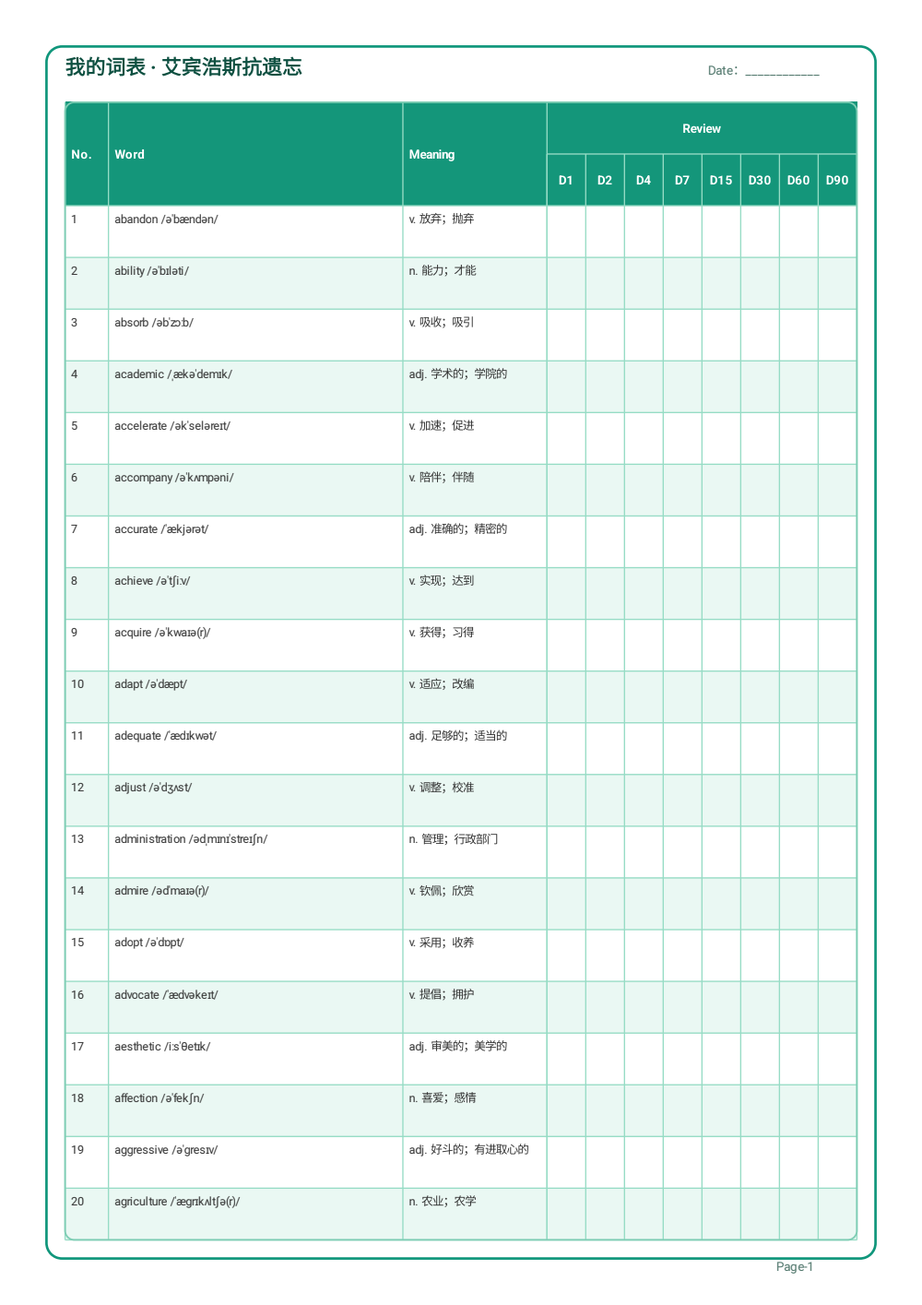
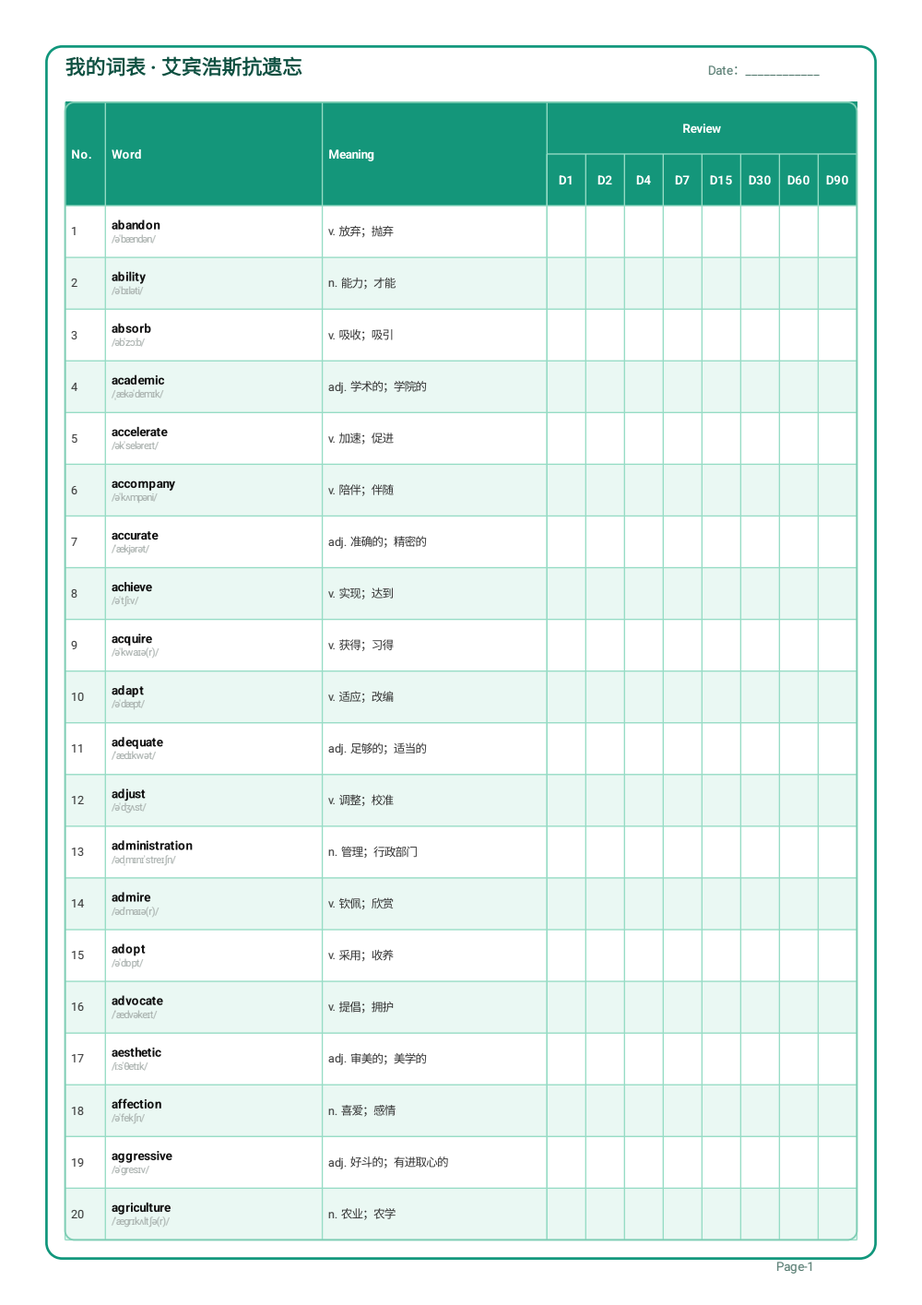
feat(worksheet): separate word from its IPA and tidy the table layout
用户要求默写纸里「单词和音标要有明显的区分（单词黑色、音标淡灰）」，并把版式排好。

- 新增 WorksheetInk 作为墨色契约：单词 #111111 / 8pt / 加粗，音标 #A3ABA8 / 6.6pt，
  释义 #333333 / 7.5pt。原先单词与音标被拼成一行同色字符串，用户看不出层次。
- 行单元格类型化为 sealed interface Cell { Plain, Word }；单词与音标分行绘制
  （单词在上、音标在下），行高不够时先保证单词完整、音标让位。
- 新增 drawCell 让文本块在行内垂直居中（按真实 fontMetrics 算块高）。原先所有
  单元格都贴顶，两行的单词格与单行的释义格看起来没对齐。
- wrap / breakByCharacter 改为显式接收 Paint：不同字号必须用各自的笔测宽，
  否则换行与省略号都算错。
- 列宽重排：FULL_LIST [22,100,余]、答案页 [26,170,余]、艾宾浩斯正文 [26,140,余]，
  Word 列要同时容下两行，释义列吃剩余宽度。
- 顺带修两处错位：艾宾浩斯合并表头原先按 ANSWER_COLUMNS 绘制而数据行用
  REVIEW_TEXT_COLUMNS，两套列宽不一致会让 Meaning 表头与列内容错开；
  ellipsize 用正文笔测宽却用表头笔画字，可用宽度偏窄导致表头溢出。

新增 WorksheetInkTest 用 WCAG 相对亮度锁定「单词必须明显重于音标」：单词亮度 < 0.05、
音标亮度 > 0.30、两者亮度差 > 0.25，且音标字号更小。断言的是可度量关系而非具体色值，
以后微调配色不会误报，把音标调成和单词一样重则一定失败。

真机（M2102J2SC / MIUI V816 / Android 13）复核：JVM 179 tests、真机全量 92 tests 全绿；
三份模板的 A4 位图与应用内预览实拍已归档到 docs/verification/printable-worksheet/，
跑测试前后用户数据库时间戳与大小一致。

diff --git a/app/src/main/java/com/example/englishlearning/export/WorksheetPdfRenderer.kt b/app/src/main/java/com/example/englishlearning/export/WorksheetPdfRenderer.kt
@@ -84,9 +84,9 @@ class WorksheetPdfRenderer(
             drawRowCells(
                 canvas, TABLE_LEFT, y, rowHeight,
                 listOf(
-                    answer.number.toString(),
-                    "${answer.lemma}  ${answer.ipa}",
-                    "${answer.partOfSpeech} ${answer.meaningZh}",
+                    Cell.Plain(answer.number.toString()),
+                    Cell.Word(answer.lemma, answer.ipa),
+                    Cell.Plain("${answer.partOfSpeech} ${answer.meaningZh}"),
                 ),
                 ANSWER_COLUMNS,
             )
@@ -107,7 +107,11 @@ class WorksheetPdfRenderer(
                 fillRow(canvas, y, rowHeight, index, left, GROUP_WIDTH)
                 drawRowCells(
                     canvas, left, y, rowHeight,
-                    listOf(row.number.toString(), "${row.lemma} ${row.ipa}", "${row.partOfSpeech} ${row.meaningZh}"),
+                    listOf(
+                        Cell.Plain(row.number.toString()),
+                        Cell.Word(row.lemma, row.ipa),
+                        Cell.Plain("${row.partOfSpeech} ${row.meaningZh}"),
+                    ),
                     FULL_LIST_COLUMNS,
                 )
             }
@@ -131,8 +135,16 @@ class WorksheetPdfRenderer(
             val y = TABLE_TOP + rowHeight * (index + 1)
             fillRow(canvas, y, rowHeight, index, left, GROUP_WIDTH)
             fillRow(canvas, y, rowHeight, index, right, GROUP_WIDTH)
-            drawRowCells(canvas, left, y, rowHeight, listOf(row.number.toString(), "${row.lemma} ${row.ipa}", ""), leftColumns)
-            drawRowCells(canvas, right, y, rowHeight, listOf(row.number.toString(), "", "${row.partOfSpeech} ${row.meaningZh}"), rightColumns)
+            drawRowCells(
+                canvas, left, y, rowHeight,
+                listOf(Cell.Plain(row.number.toString()), Cell.Word(row.lemma, row.ipa), Cell.Plain("")),
+                leftColumns,
+            )
+            drawRowCells(
+                canvas, right, y, rowHeight,
+                listOf(Cell.Plain(row.number.toString()), Cell.Plain(""), Cell.Plain("${row.partOfSpeech} ${row.meaningZh}")),
+                rightColumns,
+            )
             if (useFourLineGrid) {
                 val leftBlankStart = left + SPELLING_NUMBER_WIDTH + promptWidth
                 drawFourLineGrid(canvas, leftBlankStart + 6f, y + rowHeight - 10f, left + GROUP_WIDTH - 6f)
@@ -156,7 +168,11 @@ class WorksheetPdfRenderer(
             fillRow(canvas, y, rowHeight, index)
             drawRowCells(
                 canvas, TABLE_LEFT, y, rowHeight,
-                listOf(row.number.toString(), "${row.lemma} ${row.ipa}", "${row.partOfSpeech} ${row.meaningZh}"),
+                listOf(
+                    Cell.Plain(row.number.toString()),
+                    Cell.Word(row.lemma, row.ipa),
+                    Cell.Plain("${row.partOfSpeech} ${row.meaningZh}"),
+                ),
                 REVIEW_TEXT_COLUMNS,
             )
         }
@@ -188,11 +204,13 @@ class WorksheetPdfRenderer(
             HEADER_CORNER, HEADER_CORNER, headerFillBorder,
         )
         canvas.drawRect(left, TABLE_TOP, left + TABLE_WIDTH, headerBottom, headerFill)
-        drawHeaderCell(canvas, left, TABLE_TOP, rowHeight * EBBINGHAUS_HEADER_ROWS, "No.", ANSWER_COLUMNS[0])
-        drawHeaderCell(canvas, left + ANSWER_COLUMNS[0], TABLE_TOP, rowHeight * EBBINGHAUS_HEADER_ROWS, "Word", ANSWER_COLUMNS[1])
+        // 合并表头的列宽必须与数据行同一套（REVIEW_TEXT_COLUMNS），否则表头与列内容错位。
+        val headerHeight = rowHeight * EBBINGHAUS_HEADER_ROWS
+        drawHeaderCell(canvas, left, TABLE_TOP, headerHeight, "No.", REVIEW_TEXT_COLUMNS[0])
+        drawHeaderCell(canvas, left + REVIEW_TEXT_COLUMNS[0], TABLE_TOP, headerHeight, "Word", REVIEW_TEXT_COLUMNS[1])
         drawHeaderCell(
-            canvas, left + ANSWER_COLUMNS[0] + ANSWER_COLUMNS[1], TABLE_TOP, rowHeight * EBBINGHAUS_HEADER_ROWS,
-            "Meaning", REVIEW_TEXT_WIDTH - ANSWER_COLUMNS[0] - ANSWER_COLUMNS[1],
+            canvas, left + REVIEW_TEXT_COLUMNS[0] + REVIEW_TEXT_COLUMNS[1], TABLE_TOP, headerHeight,
+            "Meaning", REVIEW_TEXT_COLUMNS[2],
         )
         REVIEW_DAYS.forEachIndexed { index, day ->
             val x = left + REVIEW_TEXT_WIDTH + REVIEW_WIDTH * index / REVIEW_DAYS.size
@@ -231,15 +249,73 @@ class WorksheetPdfRenderer(
         canvas.drawText(text, x + width / 2f - header.measureText(text) / 2f, y + height / 2f + 3f, header)
     }
 
-    private fun drawRowCells(canvas: Canvas, left: Float, y: Float, rowHeight: Float, cells: List<String>, columns: FloatArray) {
+    /**
+     * 一行里的一个单元格。`Word` 把单词与音标拆成两种墨：单词近黑加粗、音标淡灰小字，
+     * 两者在纸面上必须一眼可分，而不是连成一串同色文字。
+     */
+    private sealed interface Cell {
+        data class Plain(val text: String) : Cell
+
+        data class Word(val lemma: String, val ipa: String) : Cell
+    }
+
+    private fun drawRowCells(
+        canvas: Canvas,
+        left: Float,
+        y: Float,
+        rowHeight: Float,
+        cells: List<Cell>,
+        columns: FloatArray,
+    ) {
         var x = left
-        cells.forEachIndexed { index, text ->
-            if (text.isNotEmpty()) {
-                drawWrapped(canvas, text, x + 4f, y + 11f, columns[index] - 8f, rowHeight - 6f)
+        cells.forEachIndexed { index, cell ->
+            val width = columns[index] - CELL_INSET_X * 2f
+            when (cell) {
+                is Cell.Plain -> if (cell.text.isNotEmpty()) {
+                    drawCell(
+                        canvas,
+                        x + CELL_INSET_X,
+                        y,
+                        rowHeight,
+                        wrap(cell.text, width, maxLinesFor(rowHeight), body).map { it to body },
+                    )
+                }
+
+                is Cell.Word -> drawCell(
+                    canvas,
+                    x + CELL_INSET_X,
+                    y,
+                    rowHeight,
+                    wordCellLines(cell.lemma, cell.ipa, width, rowHeight),
+                )
             }
             x += columns[index]
         }
     }
+
+    /** 单词在上、音标在下；行高不够时先保证单词完整，音标让位而不是互相挤成一行。 */
+    private fun wordCellLines(lemma: String, ipa: String, width: Float, rowHeight: Float): List<Pair<String, Paint>> {
+        val maxLines = maxLinesFor(rowHeight)
+        val lemmaLines = wrap(lemma, width, maxLines, lemmaInk).map { it to lemmaInk }
+        val remaining = maxLines - lemmaLines.size
+        if (remaining <= 0 || ipa.isBlank()) return lemmaLines
+        return lemmaLines + wrap(ipa, width, remaining, ipaInk).map { it to ipaInk }
+    }
+
+    /** 文本块在行内垂直居中，避免多行单元格贴顶、与相邻列看起来没对齐。 */
+    private fun drawCell(canvas: Canvas, x: Float, y: Float, rowHeight: Float, lines: List<Pair<String, Paint>>) {
+        if (lines.isEmpty()) return
+        val metrics = lines.first().second.fontMetrics
+        val ascent = -metrics.ascent
+        val blockHeight = LINE_HEIGHT * (lines.size - 1) + ascent + metrics.descent
+        var baseline = y + (rowHeight - blockHeight) / 2f + ascent
+        lines.forEach { (text, paint) ->
+            canvas.drawText(text, x, baseline, paint)
+            baseline += LINE_HEIGHT
+        }
+    }
+
+    private fun maxLinesFor(rowHeight: Float): Int = ((rowHeight - 4f) / LINE_HEIGHT).toInt().coerceAtLeast(1)
 
     /** 横向网格：表头行以下逐行画线，最后一行即表格下边框。 */
     private fun strokeRows(
@@ -297,17 +373,13 @@ class WorksheetPdfRenderer(
         canvas.drawLine(left, baseline, right, baseline, cellStroke)
     }
 
-    private fun drawWrapped(canvas: Canvas, text: String, x: Float, y: Float, maxWidth: Float, maxHeight: Float) {
-        val lines = wrap(text, maxWidth, (maxHeight / LINE_HEIGHT).toInt().coerceAtLeast(1))
-        lines.forEachIndexed { index, line -> canvas.drawText(line, x, y + LINE_HEIGHT * index, body) }
-    }
-
-    private fun wrap(text: String, maxWidth: Float, maxLines: Int): List<String> {
+    private fun wrap(text: String, maxWidth: Float, maxLines: Int, paint: Paint): List<String> {
+        if (maxLines <= 0) return emptyList()
         val byWord = mutableListOf<String>()
         var current = StringBuilder()
         text.split(' ').forEach { word ->
             val candidate = if (current.isEmpty()) word else "$current $word"
-            if (body.measureText(candidate) <= maxWidth || current.isEmpty()) {
+            if (paint.measureText(candidate) <= maxWidth || current.isEmpty()) {
                 current = StringBuilder(candidate)
             } else {
                 byWord += current.toString()
@@ -316,19 +388,19 @@ class WorksheetPdfRenderer(
         }
         if (current.isNotEmpty()) byWord += current.toString()
         // 中文释义没有空格，按词切分后仍可能超出列宽，再按字符兜底断行。
-        val lines = byWord.flatMap { line -> breakByCharacter(line, maxWidth) }
+        val lines = byWord.flatMap { line -> breakByCharacter(line, maxWidth, paint) }
         if (lines.isEmpty()) return listOf("")
         val visible = lines.take(maxLines).toMutableList()
         if (lines.size > maxLines) visible[visible.lastIndex] = visible.last().dropLast(1) + "…"
         return visible
     }
 
-    private fun breakByCharacter(line: String, maxWidth: Float): List<String> {
-        if (body.measureText(line) <= maxWidth) return listOf(line)
+    private fun breakByCharacter(line: String, maxWidth: Float, paint: Paint): List<String> {
+        if (paint.measureText(line) <= maxWidth) return listOf(line)
         val chunks = mutableListOf<String>()
         val current = StringBuilder()
         line.forEach { character ->
-            if (current.isNotEmpty() && body.measureText("$current$character") > maxWidth) {
+            if (current.isNotEmpty() && paint.measureText("$current$character") > maxWidth) {
                 chunks += current.toString()
                 current.clear()
             }
@@ -338,10 +410,11 @@ class WorksheetPdfRenderer(
         return chunks
     }
 
+    /** 表头用 `header` 笔绘制，就必须用同一支笔测宽，否则会算出偏窄的可用宽度而溢出单元格。 */
     private fun ellipsize(text: String, maxWidth: Float): String {
-        if (body.measureText(text) <= maxWidth) return text
+        if (header.measureText(text) <= maxWidth) return text
         var result = text
-        while (result.isNotEmpty() && body.measureText("$result…") > maxWidth) result = result.dropLast(1)
+        while (result.isNotEmpty() && header.measureText("$result…") > maxWidth) result = result.dropLast(1)
         return "$result…"
     }
 
@@ -370,7 +443,11 @@ class WorksheetPdfRenderer(
     private val title = textPaint(Color.rgb(14, 80, 65), 13f, bold = true)
     private val meta = textPaint(Color.rgb(78, 117, 106), 8f)
     private val header = textPaint(Color.WHITE, 8f, bold = true)
-    private val body = textPaint(Color.rgb(51, 51, 51), 7.5f)
+    private val body = textPaint(WorksheetInk.BODY, WorksheetInk.BODY_SIZE)
+    /** 单词：近黑加粗，是每一行最重的墨。 */
+    private val lemmaInk = textPaint(WorksheetInk.LEMMA, WorksheetInk.LEMMA_SIZE, bold = true)
+    /** 音标：淡灰小字，明显轻于单词。 */
+    private val ipaInk = textPaint(WorksheetInk.IPA, WorksheetInk.IPA_SIZE)
     private val frame = Paint(Paint.ANTI_ALIAS_FLAG).apply {
         color = Color.rgb(16, 150, 123)
         style = Paint.Style.STROKE
@@ -416,12 +493,14 @@ class WorksheetPdfRenderer(
         const val REVIEW_TEXT_WIDTH = TABLE_WIDTH - REVIEW_WIDTH
         const val LINE_HEIGHT = 8.4f
         const val MAX_ROW_HEIGHT = 60f
+        const val CELL_INSET_X = 4f
         const val ROWS_PER_COLUMN = 20
         const val SPELLING_NUMBER_WIDTH = 22f
         const val EBBINGHAUS_HEADER_ROWS = 2
         val REVIEW_DAYS = listOf("D1", "D2", "D4", "D7", "D15", "D30", "D60", "D90")
-        val FULL_LIST_COLUMNS = floatArrayOf(24f, 92f, GROUP_WIDTH - 116f)
-        val ANSWER_COLUMNS = floatArrayOf(28f, 190f, TABLE_WIDTH - 218f)
-        val REVIEW_TEXT_COLUMNS = floatArrayOf(28f, 190f, REVIEW_TEXT_WIDTH - 218f)
+        // Word 列要同时容下单词与音标两行，因此比 No. 列宽裕；释义列吃剩下的宽度。
+        val FULL_LIST_COLUMNS = floatArrayOf(22f, 100f, GROUP_WIDTH - 122f)
+        val ANSWER_COLUMNS = floatArrayOf(26f, 170f, TABLE_WIDTH - 196f)
+        val REVIEW_TEXT_COLUMNS = floatArrayOf(26f, 140f, REVIEW_TEXT_WIDTH - 166f)
     }
 }

diff --git a/app/src/test/java/com/example/englishlearning/export/WorksheetInkTest.kt b/app/src/test/java/com/example/englishlearning/export/WorksheetInkTest.kt
@@ -1,0 +1,46 @@
+package com.example.englishlearning.export
+
+import kotlin.math.pow
+import kotlin.test.assertTrue
+import org.junit.jupiter.api.Test
+
+/**
+ * 锁定用户要求：默写纸里「单词」和「音标」必须有明显的区分。
+ *
+ * 断言的是可度量的相对关系（谁更暗、谁更小、差得够不够远），而不是具体色值，
+ * 这样以后微调配色不会误报，但把音标调成和单词一样黑、或把字号调大到无法区分时一定会失败。
+ */
+class WorksheetInkTest {
+    @Test
+    fun `lemma ink is the darkest and ipa ink is clearly lighter`() {
+        val lemma = relativeLuminance(WorksheetInk.LEMMA)
+        val ipa = relativeLuminance(WorksheetInk.IPA)
+        val body = relativeLuminance(WorksheetInk.BODY)
+
+        assertTrue(lemma < 0.05, "单词必须是近黑，实际亮度 $lemma")
+        assertTrue(ipa > 0.30, "音标必须是明显的淡灰，不能接近黑色，实际亮度 $ipa")
+        assertTrue(lemma < body && body < ipa, "明暗层次应为 单词 < 释义 < 音标，实际 $lemma / $body / $ipa")
+        assertTrue(ipa - lemma > 0.25, "单词与音标的亮度差太小，用户看不出区别：${ipa - lemma}")
+    }
+
+    @Test
+    fun `ipa is set smaller than the lemma so the hierarchy survives greyscale printing`() {
+        assertTrue(
+            WorksheetInk.LEMMA_SIZE > WorksheetInk.IPA_SIZE,
+            "音标字号必须小于单词：${WorksheetInk.LEMMA_SIZE} vs ${WorksheetInk.IPA_SIZE}",
+        )
+        assertTrue(WorksheetInk.IPA_SIZE >= 6f, "音标也不能小到印不清：${WorksheetInk.IPA_SIZE}")
+    }
+
+    /** WCAG 相对亮度，0 为纯黑、1 为纯白。 */
+    private fun relativeLuminance(color: Int): Double {
+        fun channel(value: Int): Double {
+            val ratio = value / 255.0
+            return if (ratio <= 0.03928) ratio / 12.92 else ((ratio + 0.055) / 1.055).pow(2.4)
+        }
+
+        return 0.2126 * channel((color shr 16) and 0xFF) +
+            0.7152 * channel((color shr 8) and 0xFF) +
+            0.0722 * channel(color and 0xFF)
+    }
+}

diff --git a/app/src/main/java/com/example/englishlearning/export/WorksheetInk.kt b/app/src/main/java/com/example/englishlearning/export/WorksheetInk.kt
@@ -1,0 +1,23 @@
+package com.example.englishlearning.export
+
+/**
+ * 默写纸的墨色契约。
+ *
+ * 用户要求「单词和音标要有明显的区分」：单词用最重的近黑、音标用明显更淡的灰，
+ * 并且音标字号更小。三者数值集中在这里，渲染器与 JVM 测试读的是同一份，
+ * 因此「单词必须明显重于音标」这条要求可以被测试锁定，而不是只靠人眼看。
+ */
+object WorksheetInk {
+    /** 单词：近黑，最重，加粗。 */
+    const val LEMMA = 0xFF111111.toInt()
+
+    /** 音标：淡灰，明显轻于单词，用于弱化提示信息。 */
+    const val IPA = 0xFFA3ABA8.toInt()
+
+    /** 释义与其余正文。 */
+    const val BODY = 0xFF333333.toInt()
+
+    const val LEMMA_SIZE = 8.0f
+    const val IPA_SIZE = 6.6f
+    const val BODY_SIZE = 7.5f
+}

diff --git a/docs/verification/printable-worksheet/README.md b/docs/verification/printable-worksheet/README.md
@@ -2,7 +2,7 @@
 
 设备：`M2102J2SC`（MIUI V816 / Android 13，adb serial `bf353dda`）
 分支：`stage-1-f1-05-fsrs-scheduling`
-调试 APK：`app/build/outputs/apk/debug/app-debug.apk`，MD5 `c06fdaeca02fe7643212597fccc2b795`
+调试 APK：`app/build/outputs/apk/debug/app-debug.apk`，MD5 `089d873dbc815d144f6428103c059988`
 
 ## 一、三份导出模板
 
@@ -16,6 +16,8 @@
 | 答案页 | 单栏 `No./Word/Meaning`，题号与题目页一致 | 20 |
 
 共同版式：A4 竖版 595×842 pt、圆角青绿外框、深青底白字表头、浅青交替行底色；**每张表都带闭合外框 + 全格网格**，竖线包含左右外边线，读起来是一张连续的表而不是散落的线。标题左上、`Date：` 右上、`Page-N` 右下。四线三格只作用于拼写测试模板的留空单元格。
+
+**墨色契约（`WorksheetInk`）**：单词近黑加粗（`#111111` / 8 pt）、音标淡灰小字（`#A3ABA8` / 6.6 pt）、释义中灰（`#333333` / 7.5 pt）。单词与音标**分行**绘制（单词在上、音标在下），单元格文本块在行内垂直居中，因此同一行的单词、音标、释义在同一视觉基线上。相对关系由 `WorksheetInkTest` 锁定：单词亮度必须 < 0.05、音标亮度必须 > 0.30，且两者亮度差 > 0.25——以后微调配色不会误报，但把音标调成和单词一样重一定会失败。
 
 只有拼写测试模板消费「中译英 / 英译中」方向；完整词表与艾宾浩斯模板都直接印出单词与释义，选择两个方向也不会把词表重复两遍（`WorksheetSettings.requiresDirection()` + 文档构建器只生成一组）。
 
@@ -32,7 +34,7 @@
 ## 三、测试结果
 
 ```
-:app:testDebugUnitTest        177 tests / 0 failed / 0 skipped
+:app:testDebugUnitTest        179 tests / 0 failed / 0 skipped
 真机 am instrument 全量        92 tests / 0 failed / 0 errors / 0 skipped
 ```
 
@@ -74,14 +76,26 @@ MSYS_NO_PATHCONV=1 adb shell am instrument -w com.example.englishlearning.test/a
 | `06-export-chooser.png` | 系统面板里文件名为 `worksheet-*.pdf`，并出现「Android 系统 打开」入口 |
 | `07-opened-in-viewer.png` | PDF 在小米浏览器阅读器中真实渲染出题目页与答案页 |
 
-## 五、一并修复的既有质量门账目
+## 五、单词与音标的视觉区分，以及第二轮排版整理
+
+用户要求「单词和音标要有明显的区分，比如单词是黑色的音标是淡灰色等等，还有要排好版」。改动：
+
+- 单词与音标**分行**绘制，不再拼成一行同色文字：单词近黑加粗在上、音标淡灰小字在下。
+- 墨色抽成 `WorksheetInk`（`#111111` / `#A3ABA8` / `#333333`），由 `WorksheetInkTest` 锁定「单词必须明显重于音标」的度量关系。
+- 单元格文本块改为在行内**垂直居中**，多行单元格不再贴顶，同一行的单词、音标、释义落在同一视觉基线上。
+- 列宽重排：`FULL_LIST` `[22, 100, 剩余]`、答案页 `[26, 170, 剩余]`、艾宾浩斯正文 `[26, 140, 剩余]`——Word 列要同时容下两行，比 No. 列宽裕；释义列吃剩下的宽度。
+- 修掉两处会错位的旧问题：艾宾浩斯合并表头的列宽原先取 `ANSWER_COLUMNS`，与数据行的 `REVIEW_TEXT_COLUMNS` 不是同一套，`Meaning` 表头与列内容会错开；`ellipsize` 用正文笔测宽却用表头笔画字，算出的可用宽度偏窄导致表头溢出。
+
+真机（M2102J2SC / MIUI V816 / Android 13）复核：`WorksheetInkTest` 2/2 通过（JVM 179 项全绿），真机全量 92 项全绿；三份模板的 A4 位图在 `docs/verification/printable-worksheet/*.png`（本轮重新导出），应用内预览实拍 `ui/08-in-app-preview-ink.png`。跑测试前后 `english-learning.db`（176128 B / 00:33）与 `-wal`、`-shm` 时间戳、大小一致，用户数据未被触碰。
+
+## 六、一并修复的既有质量门账目
 
 本轮开始前全量单元测试有 4 项失败，与本功能无关，已定位并修复：
 
 1. `LogicalSnapshotSecurityTest`（2 项）与 `ProviderContractTest`（1 项）：禁用词表按**子串**匹配，`ExportProfileRecord` 里的 `Profile` 命中 `file`，把普通导出 DTO 误判成存储材料。改为按词边界（含 camelCase 拆分与相邻词拼接）匹配，`java.io.File`、`filePath`、`files`、`apiKey`、`httpUrl` 仍会被命中，检测能力未削弱。
 2. `ThirdPartyNoticesTest`：版本目录中 `androidx-core-splashscreen`、`androidx-lifecycle-viewmodel`、`androidx-hilt-navigation-compose`、`androidx-compose-ui-test-manifest`、`androidx-room-testing` 五个别名缺台账条目，已在 `docs/third-party-notices.md` 补齐。
 
-## 六、边界与未完成项
+## 七、边界与未完成项
 
 - PDF 只生成在 `cacheDir/worksheets/`，经 FileProvider 以 `content://` 只读共享；未新增存储或网络权限。
 - 词条只来自当前不可变今日计划中已提交反馈的卡片，复习词排在新词前。

diff --git a/docs/superpowers/specs/2026-09-23-printable-vocabulary-worksheet-design.md b/docs/superpowers/specs/2026-09-23-printable-vocabulary-worksheet-design.md
@@ -78,11 +78,12 @@
 
 - A4：595 × 842 pt；表格区左右各 42 pt、上下 66–800 pt；标题基线与右下 `Page-N`、右上 `Date：` 分列。
 - 每页词数由模板决定，不做统一分页：`FULL_LIST` 每页 40 词（渲染时左右各 20 行），`SPELLING_TEST` 每页 20 词，`EBBINGHAUS_REVIEW` 每页 20 词。答案页每页 20 条。
-- 渲染端把页面网格固定为 20 行/栏；数据不足的行留空格子，保证每页版式一致、末页不被撑大。行高由 `(表底 - 表顶) / (行数 + 表头行数)` 推导，艾宾浩斯模板表头占两行，避免压到页脚。
+- 渲染端把每栏容量固定为 20 行；**只绘制有数据的行**，不为凑满容量画空格子（空格子会被当成渲染缺陷）。行高由 `(表底 - 表顶) / (容量行数 + 表头行数)` 推导，因此满页恰好铺满、词条少时保持同一行高收尾，表头也不会被撑大；艾宾浩斯模板表头占两行，避免压到页脚。
 - 四线三格只作用于拼写测试模板的留空单元格，三条实线与一条红色虚线均为自主绘制的通用书写辅助线，不复制任何第三方模板。
 - 行不能跨页；当一个方向没有题目时不创建空白题目页；需要方向而未选择任何方向时，预览按钮禁用并显示“至少选择一种默写方向”。
+- **墨色契约（`WorksheetInk`）**：单词近黑加粗（`#111111` / 8 pt）、音标淡灰小字（`#A3ABA8` / 6.6 pt）、释义中灰（`#333333` / 7.5 pt）。单词与音标必须**分行**绘制且明暗差足够明显，用户要求“一眼能区分”；该相对关系由 `WorksheetInkTest` 锁定，避免以后微调配色时把两者调成一样重。单词在上、音标在下，单元格文本块在行内垂直居中，避免多行单元格贴顶而与相邻列失去对齐。
 
-版式元素对齐参考样例：圆角青绿外框、深青底白字表头、浅青交替行底色、浅青单元格网格线；英文与音标用青绿色、释义用深灰色。每一张表都画完整外框与全格网格（含左右外边线），表头、数据行与艾宾浩斯的 `Review` 列读起来是一张连续的表；艾宾浩斯模板的 `No./Word/Meaning` 是跨两行的合并表头，`D1…D90` 只占表头第二行。
+版式元素对齐参考样例：圆角青绿外框、深青底白字表头、浅青交替行底色、浅青单元格网格线。每一张表都画完整外框与全格网格（含左右外边线），表头、数据行与艾宾浩斯的 `Review` 列读起来是一张连续的表；艾宾浩斯模板的 `No./Word/Meaning` 是跨两行的合并表头（列宽与数据行共用 `REVIEW_TEXT_COLUMNS`），`D1…D90` 只占表头第二行。
 
 Android 实现使用框架 `android.graphics.pdf.PdfDocument` 和 `Canvas` 自主绘制，不新增第三方 PDF SDK。预览使用 `PdfRenderer` 将已生成的私有 PDF 渲染为页位图，Compose `LazyColumn` 显示真实纸张页面图像。
 
